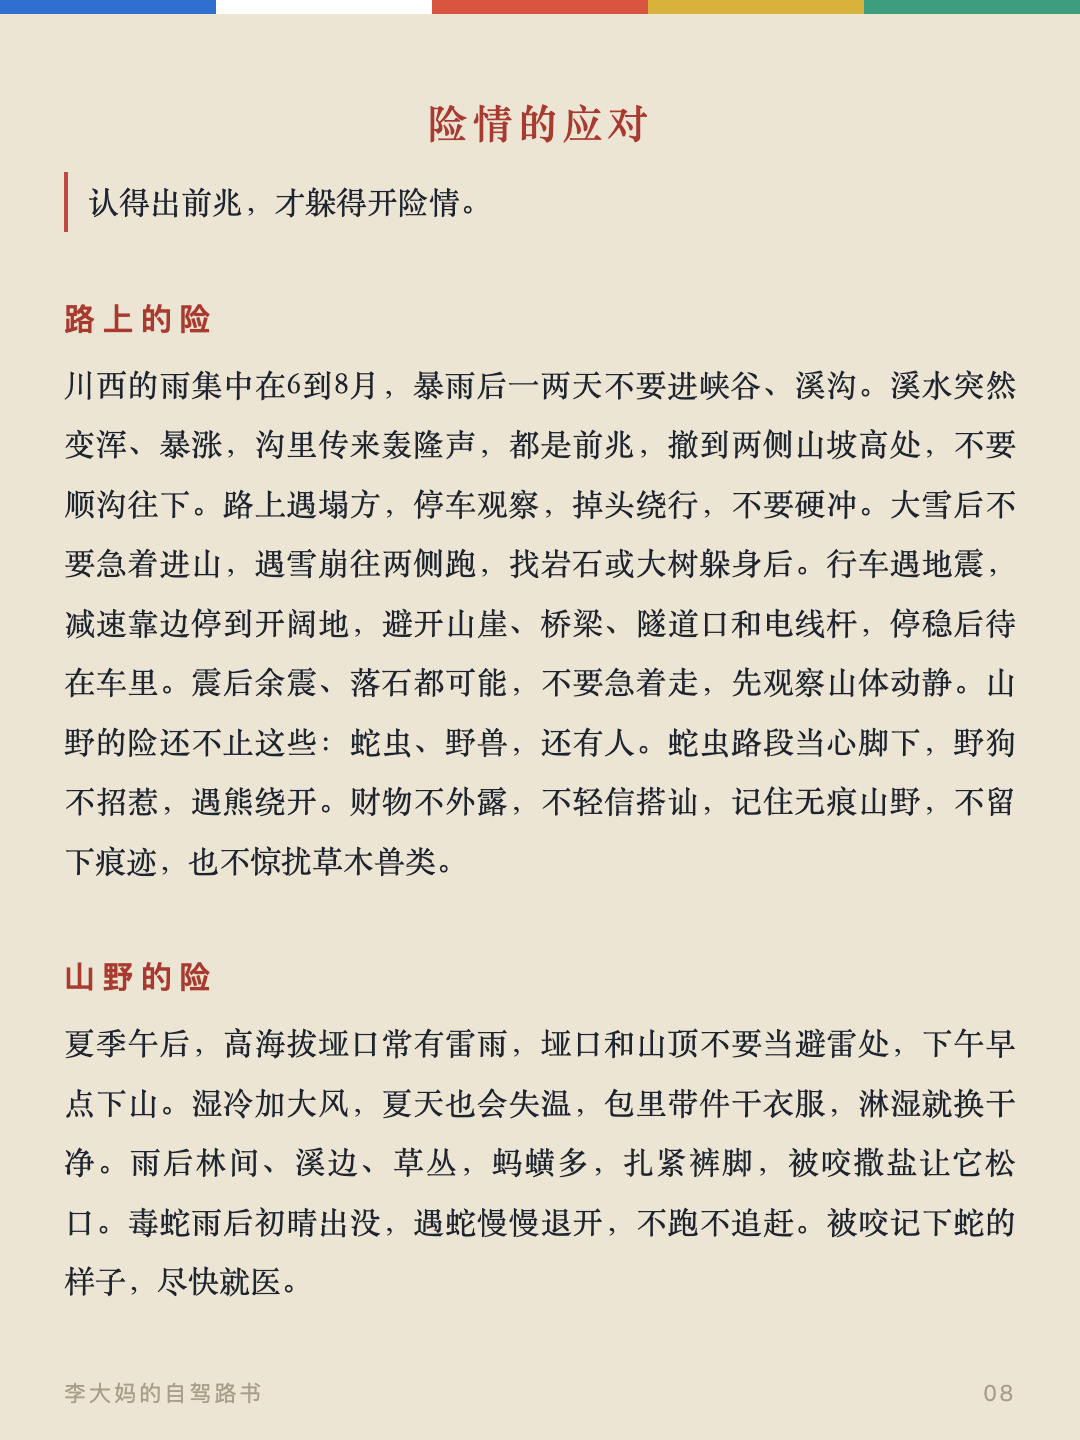
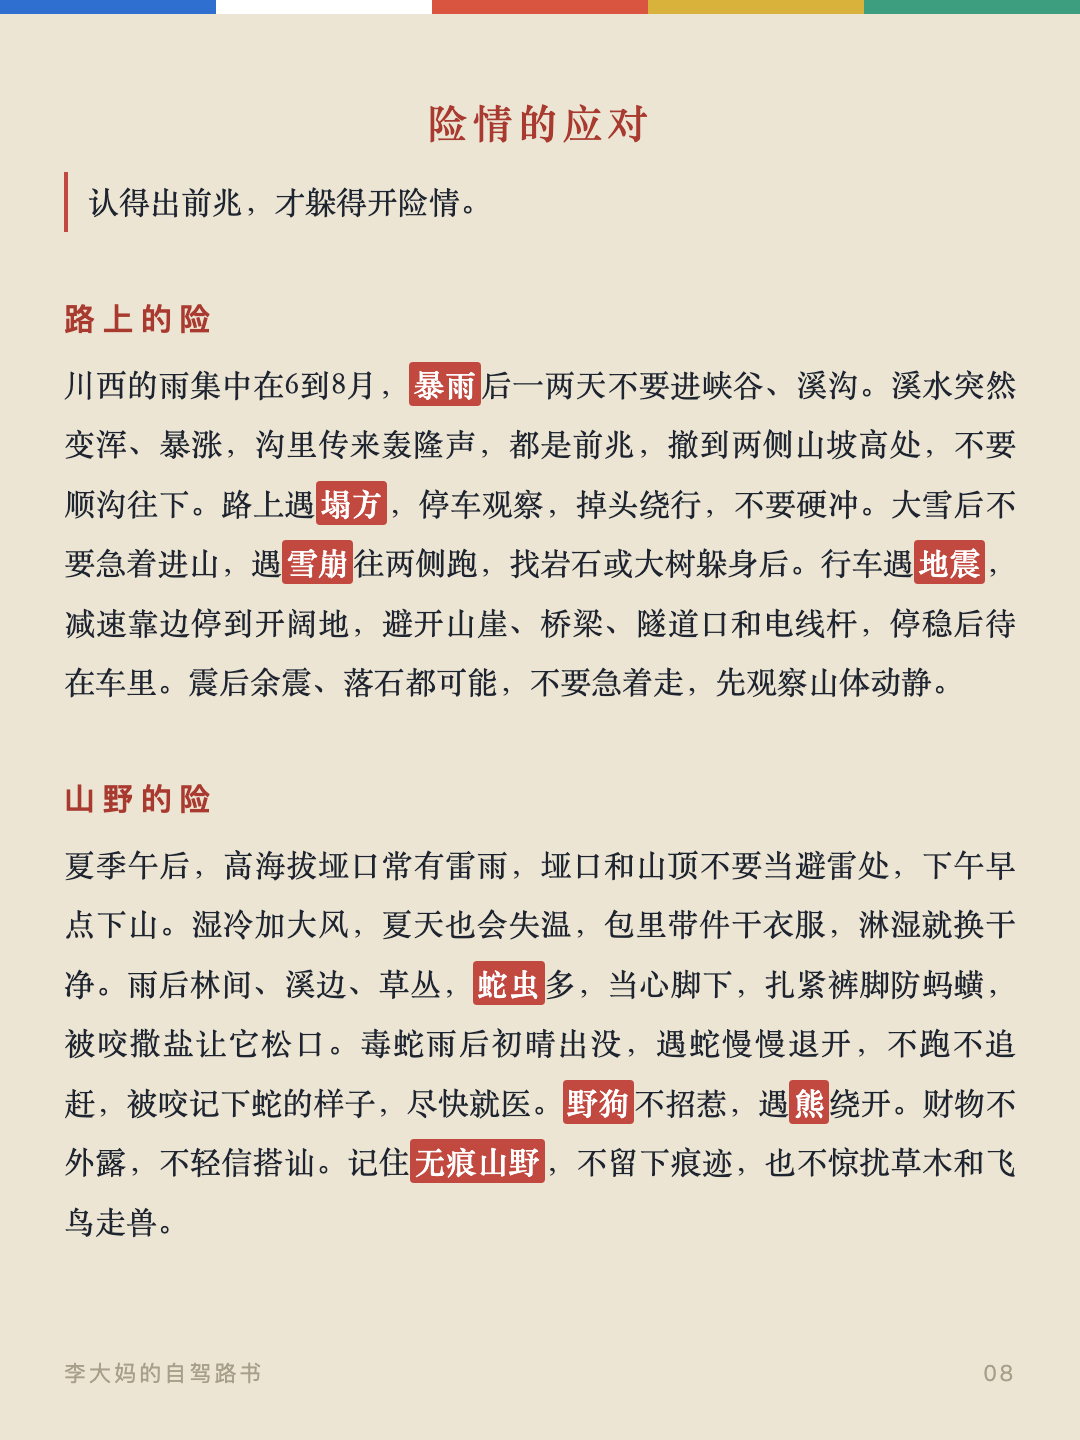
险情段拆分：山野的险从路上的险拆出，蛇虫野兽人并入山野的险并去重；末句孤字修整

diff --git a/cards.html b/cards.html
@@ -137,7 +137,7 @@
 
 <div class="card" id="card7"><div class="flag" aria-hidden="true"><span style="background:var(--flag-blue)"></span><span style="background:var(--flag-white)"></span><span style="background:var(--flag-red)"></span><span style="background:var(--flag-yellow)"></span><span style="background:var(--flag-green)"></span></div><div class="card__inner"><h3>充电</h3><p>川西这两年变化快。2025年6月甘孜州18个公路养护站和14个快充站投运，理塘到稻城段充电桩最大间距125公里；318沿线超300个充电桩，快充占七成以上。密度从东往西递减：成都到康定每30到50公里一个快充；康定、新都桥、雅江、理塘每80到150公里；理塘往稻城亚丁、新都桥往塔公八美每150到200公里。冷嘎措、格聂、若尔盖穿越段还是盲区。实际体验要打折：约一成五的桩故障或被燃油车占位，节假日热门站排队可能超一小时。高原续航缩水约三四成。<strong>电量低于三成就找桩</strong>，进景区前在县城充到八成以上。查桩用特来电、国网e充电、星星充电的App，或高德的新能源模式。</p><h3>封路信息</h3><p>两类封路最常见：汛期6到8月塌方落石，抢修期间半幅放行或管制；冬季11月到次年3、4月冬管，比如九绵高速夜间20点到次日8点禁行，夹金山段整个冬天双向禁行，理小路冬天全段禁行。<strong>G317马尔康到观音桥段，自2025年11月红旗特大桥垮塌后一直中断</strong>，绕行走壤塘、阿坝、红原方向，约多3小时；官方便道工程预计2026年9月底至10月初通车。官方渠道：阿坝州政府官网阿坝路况专栏、四川发布和成都发布公众号、高速救援12122、报警96122。<strong>官方路况和高德，出发当天交叉核对</strong>。</p><div class="card__foot"><span>李大妈的自驾路书</span><span>07</span></div></div></div>
 
-<div class="card" id="card8"><div class="flag" aria-hidden="true"><span style="background:var(--flag-blue)"></span><span style="background:var(--flag-white)"></span><span style="background:var(--flag-red)"></span><span style="background:var(--flag-yellow)"></span><span style="background:var(--flag-green)"></span></div><div class="card__inner"><h2>险情的应对</h2><p class="card__lead">认得出前兆，才躲得开险情。</p><h3>路上的险</h3><p>川西的雨集中在6到8月，暴雨后一两天不要进峡谷、溪沟。溪水突然变浑、暴涨，沟里传来轰隆声，都是前兆，撤到两侧山坡高处，不要顺沟往下。路上遇塌方，停车观察，掉头绕行，不要硬冲。大雪后不要急着进山，遇雪崩往两侧跑，找岩石或大树躲身后。行车遇地震，减速靠边停到开阔地，避开山崖、桥梁、隧道口和电线杆，停稳后待在车里。震后余震、落石都可能，不要急着走，先观察山体动静。山野的险还不止这些：蛇虫、野兽，还有人。蛇虫路段当心脚下，野狗不招惹，遇熊绕开。财物不外露，不轻信搭讪，记住无痕山野，不留下痕迹，也不惊扰草木兽类。</p><h3>山野的险</h3><p>夏季午后，高海拔垭口常有雷雨，垭口和山顶不要当避雷处，下午早点下山。湿冷加大风，夏天也会失温，包里带件干衣服，淋湿就换干净。雨后林间、溪边、草丛，蚂蟥多，扎紧裤脚，被咬撒盐让它松口。毒蛇雨后初晴出没，遇蛇慢慢退开，不跑不追赶。被咬记下蛇的样子，尽快就医。</p><div class="card__foot"><span>李大妈的自驾路书</span><span>08</span></div></div></div>
+<div class="card" id="card8"><div class="flag" aria-hidden="true"><span style="background:var(--flag-blue)"></span><span style="background:var(--flag-white)"></span><span style="background:var(--flag-red)"></span><span style="background:var(--flag-yellow)"></span><span style="background:var(--flag-green)"></span></div><div class="card__inner"><h2>险情的应对</h2><p class="card__lead">认得出前兆，才躲得开险情。</p><h3>路上的险</h3><p>川西的雨集中在6到8月，<strong>暴雨</strong>后一两天不要进峡谷、溪沟。溪水突然变浑、暴涨，沟里传来轰隆声，都是前兆，撤到两侧山坡高处，不要顺沟往下。路上遇<strong>塌方</strong>，停车观察，掉头绕行，不要硬冲。大雪后不要急着进山，遇<strong>雪崩</strong>往两侧跑，找岩石或大树躲身后。行车遇<strong>地震</strong>，减速靠边停到开阔地，避开山崖、桥梁、隧道口和电线杆，停稳后待在车里。震后余震、落石都可能，不要急着走，先观察山体动静。</p><h3>山野的险</h3><p>夏季午后，高海拔垭口常有雷雨，垭口和山顶不要当避雷处，下午早点下山。湿冷加大风，夏天也会失温，包里带件干衣服，淋湿就换干净。雨后林间、溪边、草丛，<strong>蛇虫</strong>多，当心脚下，扎紧裤脚防蚂蟥，被咬撒盐让它松口。毒蛇雨后初晴出没，遇蛇慢慢退开，不跑不追赶，被咬记下蛇的样子，尽快就医。<strong>野狗</strong>不招惹，遇<strong>熊</strong>绕开。财物不外露，不轻信搭讪。记住<strong>无痕山野</strong>，不留下痕迹，也不惊扰草木和飞鸟走兽。</p><div class="card__foot"><span>李大妈的自驾路书</span><span>08</span></div></div></div>
 
 <div class="card" id="card9"><div class="flag" aria-hidden="true"><span style="background:var(--flag-blue)"></span><span style="background:var(--flag-white)"></span><span style="background:var(--flag-red)"></span><span style="background:var(--flag-yellow)"></span><span style="background:var(--flag-green)"></span></div><div class="card__inner"><h2>信仰的世界</h2><p class="card__lead">看墙色，分辨教派。</p><p>川西在藏文化版图里的位置。藏区习惯分成三大块：拉萨一带的卫藏，青海甘肃的安多，还有以甘孜、昌都为核心的康巴。康巴人性格外放，“康巴汉子”的名声就是这么来的。和卫藏、安多不同，川西<strong>没有哪个教派一家独大</strong>。甘孜州登记的寺院有515座，涵盖五大教派，其中宁玛、格鲁、萨迦、噶举属藏传佛教，苯教是本土宗教。</p><p>分辨教派，看寺庙外墙的颜色。宁玛派叫<strong>红教</strong>，是最古老的派别，多随牧区分布。萨迦派叫<strong>花教</strong>，寺墙刷红、白、黑三色条纹，据说是文殊、观音、金刚手三位菩萨的象征。噶举派叫<strong>白教</strong>，叫法来自早期僧人穿白衣的传承，四川藏区的祖寺是德格的八邦寺。格鲁派叫<strong>黄教</strong>，传入最晚，理塘的长青春科尔寺是康区最早的格鲁派寺院。还有苯教，比藏传佛教更古老的本地信仰，没有对应的颜色称呼，它在川西的地位比在发源地西藏还高，阿坝县的郎依寺，是国内外现存规模最大的苯教寺院，阿坝金川的雍忠拉顶寺一带被称为“第二象雄”。</p><p>最特别的是德格。历代德格土司推行“不分教派、一律扶持”的政策，硬是把五大教派全留在自家地盘上，这在藏区很少见，<strong>德格也因此成了藏文化的三大中心之一</strong>。</p><div class="card__foot"><span>李大妈的自驾路书</span><span>09</span></div></div></div>
 

diff --git a/index.html b/index.html
@@ -266,10 +266,10 @@
       <p class="part__lead">认得出前兆，才躲得开险情。</p>
 
       <h3>路上的险</h3>
-      <p>川西的雨集中在6到8月，暴雨后一两天不要进峡谷、溪沟。溪水突然变浑、暴涨，沟里传来轰隆声，都是前兆，撤到两侧山坡高处，不要顺沟往下。路上遇塌方，停车观察，掉头绕行，不要硬冲。大雪后不要急着进山，遇雪崩往两侧跑，找岩石或大树躲身后。行车遇地震，减速靠边停到开阔地，避开山崖、桥梁、隧道口和电线杆，停稳后待在车里。震后余震、落石都可能，不要急着走，先观察山体动静。山野的险还不止这些：蛇虫、野兽，还有人。蛇虫路段当心脚下，野狗不招惹，遇熊绕开。财物不外露，不轻信搭讪，记住无痕山野，不留下痕迹，也不惊扰草木兽类。</p>
+      <p>川西的雨集中在6到8月，<strong>暴雨</strong>后一两天不要进峡谷、溪沟。溪水突然变浑、暴涨，沟里传来轰隆声，都是前兆，撤到两侧山坡高处，不要顺沟往下。路上遇<strong>塌方</strong>，停车观察，掉头绕行，不要硬冲。大雪后不要急着进山，遇<strong>雪崩</strong>往两侧跑，找岩石或大树躲身后。行车遇<strong>地震</strong>，减速靠边停到开阔地，避开山崖、桥梁、隧道口和电线杆，停稳后待在车里。震后余震、落石都可能，不要急着走，先观察山体动静。</p>
 
       <h3>山野的险</h3>
-      <p>夏季午后，高海拔垭口常有雷雨，垭口和山顶不要当避雷处，下午早点下山。湿冷加大风，夏天也会失温，包里带件干衣服，淋湿就换干净。雨后林间、溪边、草丛，蚂蟥多，扎紧裤脚，被咬撒盐让它松口。毒蛇雨后初晴出没，遇蛇慢慢退开，不跑不追赶。被咬记下蛇的样子，尽快就医。</p>
+      <p>夏季午后，高海拔垭口常有雷雨，垭口和山顶不要当避雷处，下午早点下山。湿冷加大风，夏天也会失温，包里带件干衣服，淋湿就换干净。雨后林间、溪边、草丛，<strong>蛇虫</strong>多，当心脚下，扎紧裤脚防蚂蟥，被咬撒盐让它松口。毒蛇雨后初晴出没，遇蛇慢慢退开，不跑不追赶，被咬记下蛇的样子，尽快就医。<strong>野狗</strong>不招惹，遇<strong>熊</strong>绕开。财物不外露，不轻信搭讪。记住<strong>无痕山野</strong>，不留下痕迹，也不惊扰草木和飞鸟走兽。</p>
     </section>
 
     <!-- 五、信仰的世界 -->

diff --git a/gen_cards.py b/gen_cards.py
@@ -61,9 +61,9 @@ BODY_STREAM = [
   ('h2', '险情的应对'),
   ('lead', '认得出前兆，才躲得开险情。'),
   ('h3', '路上的险'),
-  ('p', '川西的雨集中在6到8月，暴雨后一两天不要进峡谷、溪沟。溪水突然变浑、暴涨，沟里传来轰隆声，都是前兆，撤到两侧山坡高处，不要顺沟往下。路上遇塌方，停车观察，掉头绕行，不要硬冲。大雪后不要急着进山，遇雪崩往两侧跑，找岩石或大树躲身后。行车遇地震，减速靠边停到开阔地，避开山崖、桥梁、隧道口和电线杆，停稳后待在车里。震后余震、落石都可能，不要急着走，先观察山体动静。山野的险还不止这些：蛇虫、野兽，还有人。蛇虫路段当心脚下，野狗不招惹，遇熊绕开。财物不外露，不轻信搭讪，记住无痕山野，不留下痕迹，也不惊扰草木兽类。'),
+  ('p', '川西的雨集中在6到8月，<strong>暴雨</strong>后一两天不要进峡谷、溪沟。溪水突然变浑、暴涨，沟里传来轰隆声，都是前兆，撤到两侧山坡高处，不要顺沟往下。路上遇<strong>塌方</strong>，停车观察，掉头绕行，不要硬冲。大雪后不要急着进山，遇<strong>雪崩</strong>往两侧跑，找岩石或大树躲身后。行车遇<strong>地震</strong>，减速靠边停到开阔地，避开山崖、桥梁、隧道口和电线杆，停稳后待在车里。震后余震、落石都可能，不要急着走，先观察山体动静。'),
   ('h3', '山野的险'),
-  ('p', '夏季午后，高海拔垭口常有雷雨，垭口和山顶不要当避雷处，下午早点下山。湿冷加大风，夏天也会失温，包里带件干衣服，淋湿就换干净。雨后林间、溪边、草丛，蚂蟥多，扎紧裤脚，被咬撒盐让它松口。毒蛇雨后初晴出没，遇蛇慢慢退开，不跑不追赶。被咬记下蛇的样子，尽快就医。'),
+  ('p', '夏季午后，高海拔垭口常有雷雨，垭口和山顶不要当避雷处，下午早点下山。湿冷加大风，夏天也会失温，包里带件干衣服，淋湿就换干净。雨后林间、溪边、草丛，<strong>蛇虫</strong>多，当心脚下，扎紧裤脚防蚂蟥，被咬撒盐让它松口。毒蛇雨后初晴出没，遇蛇慢慢退开，不跑不追赶，被咬记下蛇的样子，尽快就医。<strong>野狗</strong>不招惹，遇<strong>熊</strong>绕开。财物不外露，不轻信搭讪。记住<strong>无痕山野</strong>，不留下痕迹，也不惊扰草木和飞鸟走兽。'),
   ('h2', '信仰的世界'),
   ('lead', '看墙色，分辨教派。'),
   ('p', '川西在藏文化版图里的位置。藏区习惯分成三大块：拉萨一带的卫藏，青海甘肃的安多，还有以甘孜、昌都为核心的康巴。康巴人性格外放，“康巴汉子”的名声就是这么来的。和卫藏、安多不同，川西<strong>没有哪个教派一家独大</strong>。甘孜州登记的寺院有515座，涵盖五大教派，其中宁玛、格鲁、萨迦、噶举属藏传佛教，苯教是本土宗教。'),

diff --git a/worklog-2026-08-28.md b/worklog-2026-08-28.md
@@ -78,3 +78,17 @@
 - jidakong 更新：单字动词加严（两个出路）、动词不尊重对象（认教派）、被动句不按密度判病、成分悬空（宾语提前/场景前缀/指征）、行话不落地、外位化称呼、认字模糊、别字警示腔
 
 分页：H=1340，17 页。渲染实测无溢出（最小间隙31px）、无孤字（「加油」「充电」为两字标题，非换行孤字）。重截 17 张 PNG。
+
+### 4.8 险情段拆分（路上的险 / 山野的险分类 + 去重）
+用户 review 指出：蛇虫、野兽、人这些「山野的险」被放在了「路上的险」段落里，位置错了；且合并时注意不要重复啰嗦。
+
+改动（gen_cards.py 与 index.html 同步）：
+- 路上险段（h3 路上的险）删掉尾部「山野的险还不止这些：蛇虫、野兽，还有人」及蛇虫野狗熊无痕句，只留行车险：暴雨、塌方、雪崩、地震
+- 山野险段（h3 山野的险）并入蛇虫/野兽/人/无痕句，与原蚂蟥毒蛇合并去重：
+  - 蛇虫统一：雨后林间溪边草丛「蛇虫多，当心脚下，扎紧裤脚防蚂蟥，被咬撒盐让它松口」+「毒蛇雨后初晴出没，遇蛇慢慢退开，不跑不追赶，被咬记下蛇的样子，尽快就医」
+  - 野兽：野狗不招惹，遇熊绕开；人：财物不外露，不轻信搭讪；无痕山野收尾
+  - 「山野的险还不止这些」引导句删掉（h3 标题已是「山野的险」）
+- 孤字修整：末句「不惊扰草木兽类」末行落「兽类」两字孤，加字推挤 →「不惊扰草木和飞鸟走兽」（实测末行 4 字）
+
+反色 strong 保持 8 类词：暴雨、塌方、雪崩、地震（路上险）；蛇虫、野狗、熊、无痕山野（山野险）。
+分页：H=1340，17 页不变。渲染实测无溢出（最小间隙31px）、无孤字（仅「加油」「充电」两字标题误报）。重截 17 张 PNG。
